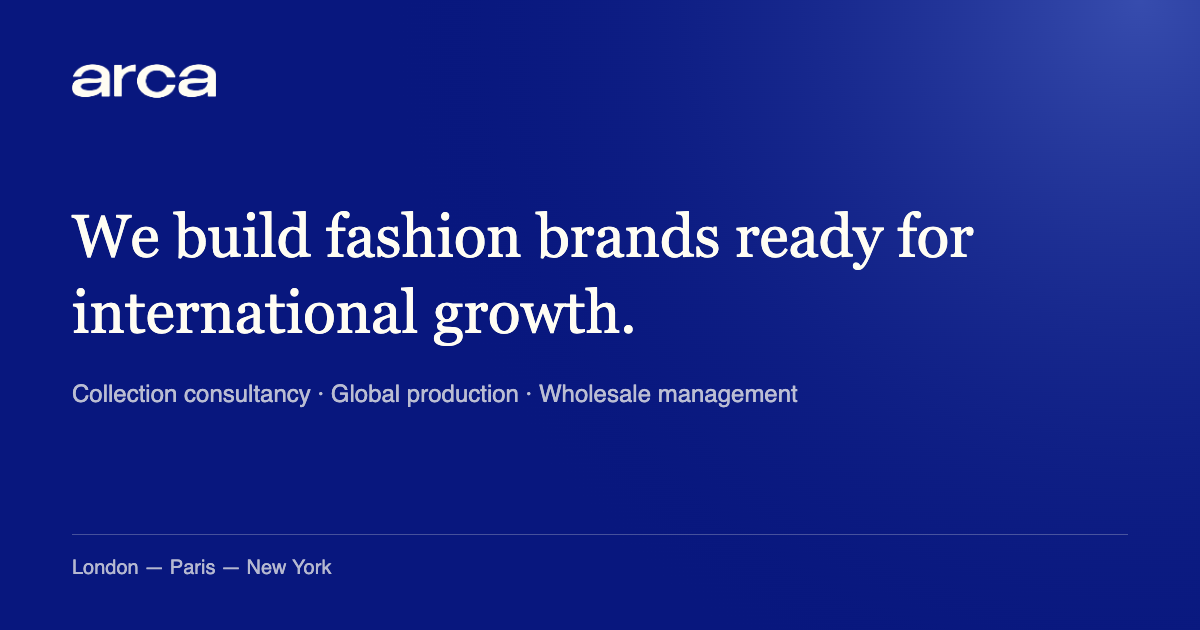
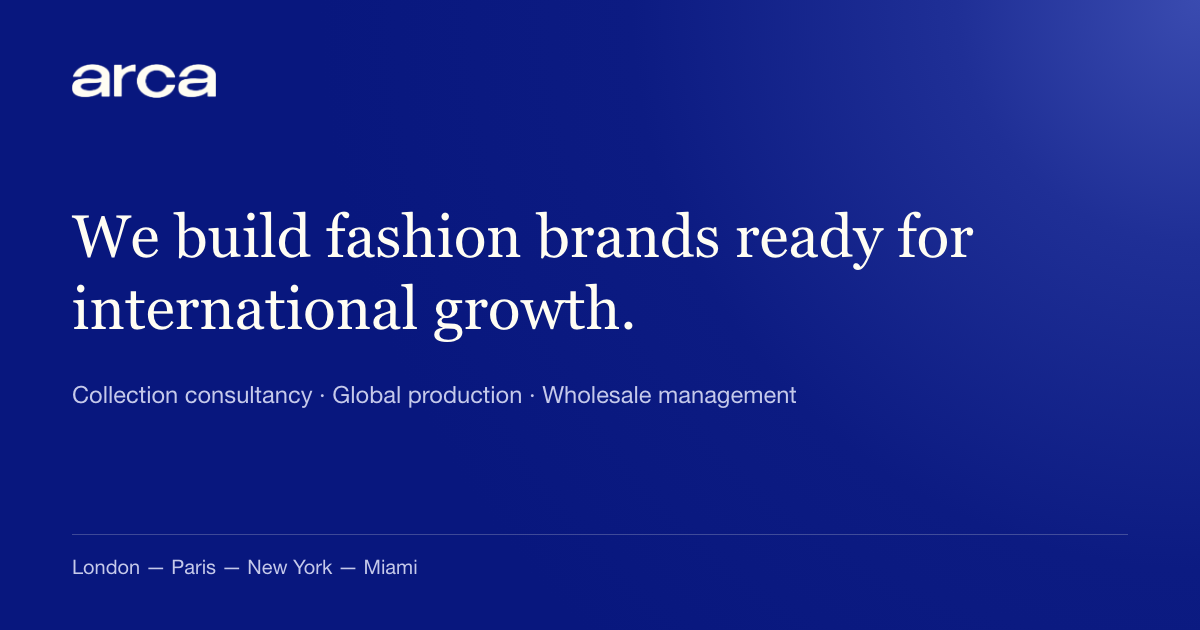
content: add Wild & Pacific to the client wall; add Miami to the cities line
Cities updated in all four footers, the brand sheet, JSON-LD areaServed and
both share images (re-rendered).

Claude-Session: https://claude.ai/code/session_01LR42j3uvR4ANfmGLAvEUy5

diff --git a/es/index.html b/es/index.html
@@ -49,7 +49,8 @@
   "areaServed": [
     { "@type": "Place", "name": "Londres" },
     { "@type": "Place", "name": "París" },
-    { "@type": "Place", "name": "Nueva York" }
+    { "@type": "Place", "name": "Nueva York" },
+    { "@type": "Place", "name": "Miami" }
   ],
   "knowsAbout": [
     "Consultoría de colección",
@@ -209,7 +210,7 @@
       <div class="marquee-mask">
         <div class="marquee marquee-32" id="client-row-cream"></div>
       </div>
-      <noscript><p class="wall-more">Clientes: SER, Mai Petit, Mialé, Valentina Quintero, Ola Azul, Maygel Coronel, Cristian Tula, Francques, Soloio, Andrés Pajón, kibys, lululemon, Pitusa, Splash, Casabela, Cala de la Cruz.</p></noscript>
+      <noscript><p class="wall-more">Clientes: SER, Mai Petit, Mialé, Valentina Quintero, Ola Azul, Maygel Coronel, Cristian Tula, Francques, Soloio, Andrés Pajón, kibys, lululemon, Pitusa, Splash, Casabela, Cala de la Cruz, Wild &amp; Pacific.</p></noscript>
 
       <p class="wall-label wall-label-buyers">Red de retailers</p>
       <div class="marquee-mask">
@@ -326,7 +327,7 @@
 <footer class="band-blue site-footer">
   <div class="footer-inner">
     <img src="/assets/logos/arca-wordmark-cream.png" width="1206" height="284" loading="lazy" alt="arca" class="footer-logo">
-    <p class="footer-cities">Londres — París — Nueva York</p>
+    <p class="footer-cities">Londres — París — Nueva York — Miami</p>
     <div class="footer-right">
       <a href="https://instagram.com/arca_consultancy" target="_blank" rel="noopener" title="@arca_consultancy en Instagram" aria-label="Arca Consultancy en Instagram" class="footer-ig">
         <svg width="19" height="19" viewBox="0 0 24 24" fill="none" stroke="#FFFDF3" stroke-width="1.8" stroke-linecap="round"><rect x="2.5" y="2.5" width="19" height="19" rx="5.5"/><circle cx="12" cy="12" r="4.6"/><circle cx="17.6" cy="6.4" r="1.15" fill="#FFFDF3" stroke="none"/></svg>

diff --git a/index.html b/index.html
@@ -49,7 +49,8 @@
   "areaServed": [
     { "@type": "Place", "name": "London" },
     { "@type": "Place", "name": "Paris" },
-    { "@type": "Place", "name": "New York" }
+    { "@type": "Place", "name": "New York" },
+    { "@type": "Place", "name": "Miami" }
   ],
   "knowsAbout": [
     "Collection consultancy",
@@ -205,7 +206,7 @@
       <div class="marquee-mask">
         <div class="marquee marquee-32" id="client-row-cream"></div>
       </div>
-      <noscript><p class="wall-more">Clients: SER, Mai Petit, Mialé, Valentina Quintero, Ola Azul, Maygel Coronel, Cristian Tula, Francques, Soloio, Andrés Pajón, kibys, lululemon, Pitusa, Splash, Casabela, Cala de la Cruz.</p></noscript>
+      <noscript><p class="wall-more">Clients: SER, Mai Petit, Mialé, Valentina Quintero, Ola Azul, Maygel Coronel, Cristian Tula, Francques, Soloio, Andrés Pajón, kibys, lululemon, Pitusa, Splash, Casabela, Cala de la Cruz, Wild &amp; Pacific.</p></noscript>
 
       <p class="wall-label wall-label-buyers">Retailer network</p>
       <div class="marquee-mask">
@@ -322,7 +323,7 @@
 <footer class="band-blue site-footer">
   <div class="footer-inner">
     <img src="/assets/logos/arca-wordmark-cream.png" width="1206" height="284" loading="lazy" alt="arca" class="footer-logo">
-    <p class="footer-cities">London — Paris — New York</p>
+    <p class="footer-cities">London — Paris — New York — Miami</p>
     <div class="footer-right">
       <a href="https://instagram.com/arca_consultancy" target="_blank" rel="noopener" title="@arca_consultancy on Instagram" aria-label="Arca Consultancy on Instagram" class="footer-ig">
         <svg width="19" height="19" viewBox="0 0 24 24" fill="none" stroke="#FFFDF3" stroke-width="1.8" stroke-linecap="round"><rect x="2.5" y="2.5" width="19" height="19" rx="5.5"/><circle cx="12" cy="12" r="4.6"/><circle cx="17.6" cy="6.4" r="1.15" fill="#FFFDF3" stroke="none"/></svg>

diff --git a/es/privacidad/index.html b/es/privacidad/index.html
@@ -72,7 +72,7 @@
 <footer class="band-blue site-footer">
   <div class="footer-inner">
     <img src="/assets/logos/arca-wordmark-cream.png" width="1206" height="284" loading="lazy" alt="arca" class="footer-logo">
-    <p class="footer-cities">Londres — París — Nueva York</p>
+    <p class="footer-cities">Londres — París — Nueva York — Miami</p>
     <div class="footer-right">
       <a href="https://instagram.com/arca_consultancy" target="_blank" rel="noopener" title="@arca_consultancy on Instagram" aria-label="Arca Consultancy en Instagram" class="footer-ig">
         <svg width="19" height="19" viewBox="0 0 24 24" fill="none" stroke="#FFFDF3" stroke-width="1.8" stroke-linecap="round"><rect x="2.5" y="2.5" width="19" height="19" rx="5.5"/><circle cx="12" cy="12" r="4.6"/><circle cx="17.6" cy="6.4" r="1.15" fill="#FFFDF3" stroke="none"/></svg>

diff --git a/privacy/index.html b/privacy/index.html
@@ -72,7 +72,7 @@
 <footer class="band-blue site-footer">
   <div class="footer-inner">
     <img src="/assets/logos/arca-wordmark-cream.png" width="1206" height="284" loading="lazy" alt="arca" class="footer-logo">
-    <p class="footer-cities">London — Paris — New York</p>
+    <p class="footer-cities">London — Paris — New York — Miami</p>
     <div class="footer-right">
       <a href="https://instagram.com/arca_consultancy" target="_blank" rel="noopener" title="@arca_consultancy on Instagram" aria-label="Arca Consultancy on Instagram" class="footer-ig">
         <svg width="19" height="19" viewBox="0 0 24 24" fill="none" stroke="#FFFDF3" stroke-width="1.8" stroke-linecap="round"><rect x="2.5" y="2.5" width="19" height="19" rx="5.5"/><circle cx="12" cy="12" r="4.6"/><circle cx="17.6" cy="6.4" r="1.15" fill="#FFFDF3" stroke="none"/></svg>

diff --git a/js/site.js b/js/site.js
@@ -42,7 +42,8 @@
     { src: '/assets/logos/pitusa.png', alt: 'Pitusa', h: 32, w: 111 },
     { src: '/assets/logos/splash.png', alt: 'Splash', h: 20, w: 181 },
     { src: '/assets/logos/casabela.png', alt: 'Casabela', h: 20, w: 127 },
-    { src: '/assets/logos/cala-de-la-cruz.png', alt: 'Cala de la Cruz', h: 49, w: 302 } // width-clamped
+    { src: '/assets/logos/cala-de-la-cruz.png', alt: 'Cala de la Cruz', h: 49, w: 302 }, // width-clamped
+    { src: '/assets/logos/wild-and-pacific.png', alt: 'Wild & Pacific', h: 19, w: 258 }
   ];
   var press = [
     { src: '/assets/logos/vogue-mexico.svg', alt: 'Vogue México', h: 36, w: 154, dy: 9 },

diff --git a/brand/index.html b/brand/index.html
@@ -186,7 +186,7 @@
 <footer class="bg-footer">
   <div class="inner">
     <img src="../assets/logos/arca-wordmark-cream.png" alt="arca">
-    <p class="cities">London — Paris — New York</p>
+    <p class="cities">London — Paris — New York — Miami</p>
     <p class="version">Brand guidelines V1 · © 2026 Arca Consultancy</p>
   </div>
 </footer>

diff --git a/CLAUDE.md b/CLAUDE.md
@@ -37,7 +37,7 @@ js/site.js          marquees, reveals, connector lines, video triggers, form
 src/worker.js       serves assets + POST /api/contact → email
 robots.txt          allows all, disallows /brand/, points at the sitemap
 sitemap.xml         both language URLs with reciprocal hreflang alternates
-assets/logos/       23 client/press marks + arca-wordmark-cream.png
+assets/logos/       24 client/press marks + arca-wordmark-cream.png
                     (glyph heights: header 15/13px, footer 18px; never the
                     badge version, never in a container shape)
 assets/buyers/      12 buyer marks — the cleaned .png set only
@@ -185,6 +185,8 @@ excepted — their focus state is the underline per spec).
   structure or content on `index.html` MUST be mirrored there in the same
   commit, and vice versa. Same rule as /brand/, same consequence: if they
   diverge, the change was incomplete. Full checklist under "Content rules".
+- **OG images carry the cities line** (London — Paris — New York — Miami, added
+  Sep 2026) — if the footer cities change, re-render both.
 - **OG images** are rendered with system font stand-ins — re-render from the
   design file with real Cormorant Garamond/DM Sans when brand type matters.
 - **`social/og-image-es.png`** was re-rendered in Sep 2026 to match the reviewed
@@ -211,7 +213,8 @@ excepted — their focus state is the underline per spec).
 Third-party logo permissions: client/buyer/press marks belong to their owners —
 Honor confirmed use for the full current set including the five marks added in
 the Aug 2026 round (Valentina Quintero, Maygel Coronel, Soloio, Casabela,
-kibys). Keep the paper trail.
+kibys). Wild & Pacific was added in Sep 2026 at the client's request (file taken
+from wildandpacific.com). Keep the paper trail.
 
 Note on `collection-animate.mp4`: it is a baked video with no editable source in
 the handoff — any text change in that diagram means a re-export from the designer,
